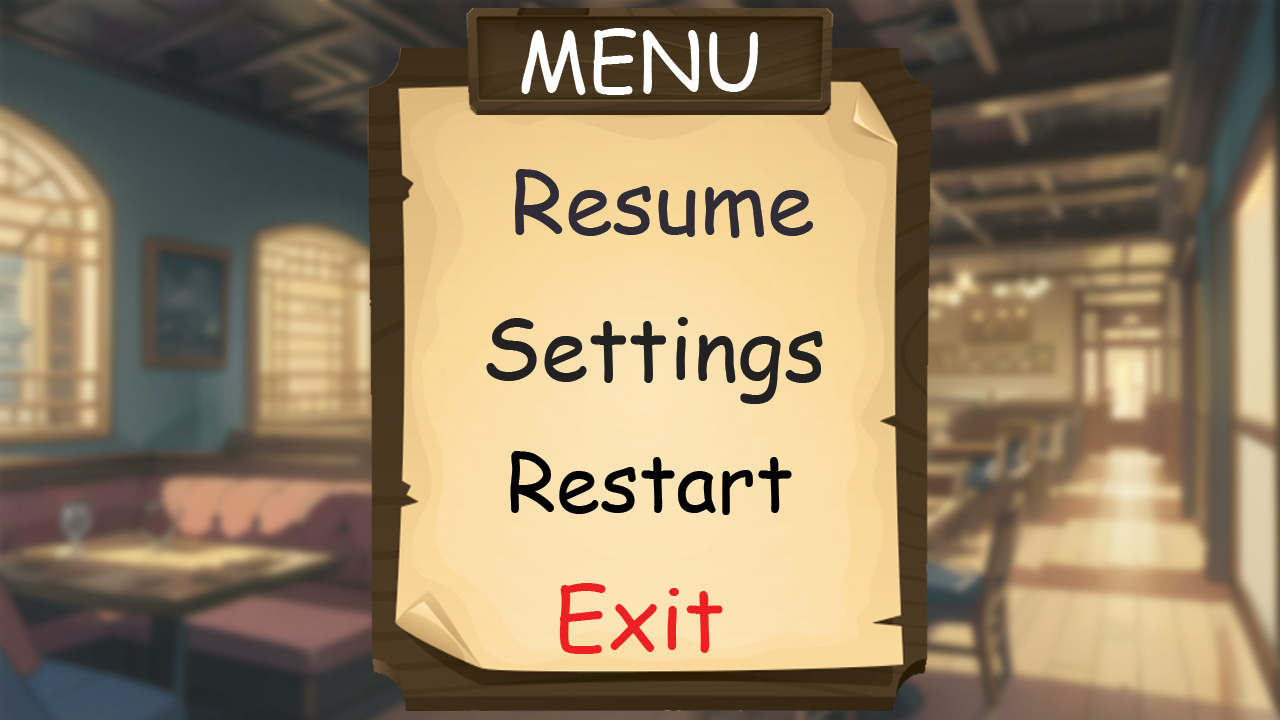
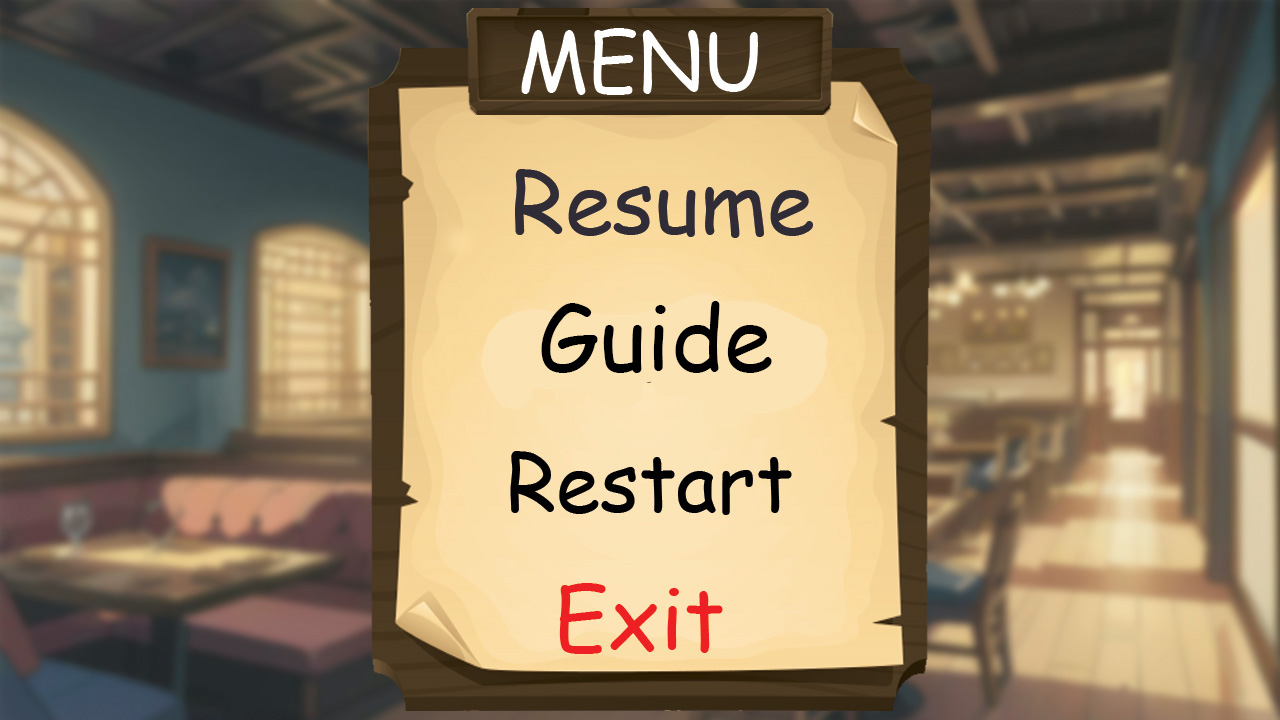
Replaced Settings with Guide
Helps player know what to do.

Changed region(s): [[0.375, 0.3972, 0.6562, 0.5806]]

diff --git a/Assets/Scripts/pauseButton.cs b/Assets/Scripts/pauseButton.cs
@@ -13,6 +13,10 @@ public class PauseGame : MonoBehaviour
     public Button resumeButton;
     public Button restartButton;
     public Button exitButton;
+    //public Button guideButton;
+
+    //public GameObject guideImage;
+    //public bool isImageActive = false;
 
     void Start()
     {
@@ -20,6 +24,7 @@ public class PauseGame : MonoBehaviour
         resumeButton.onClick.AddListener(togglePause);  
         restartButton.onClick.AddListener(Restart);    
         exitButton.onClick.AddListener(Exit);
+        //guideButton.onClick.AddListener(Guide);
     }
 
     void Update()
@@ -45,6 +50,12 @@ public class PauseGame : MonoBehaviour
             isPaused = true;
         }
     }
+
+    //public void Guide()
+    //{
+    //    guideImage.SetActive(true);
+
+    //}
 
     public void Restart()
     {
